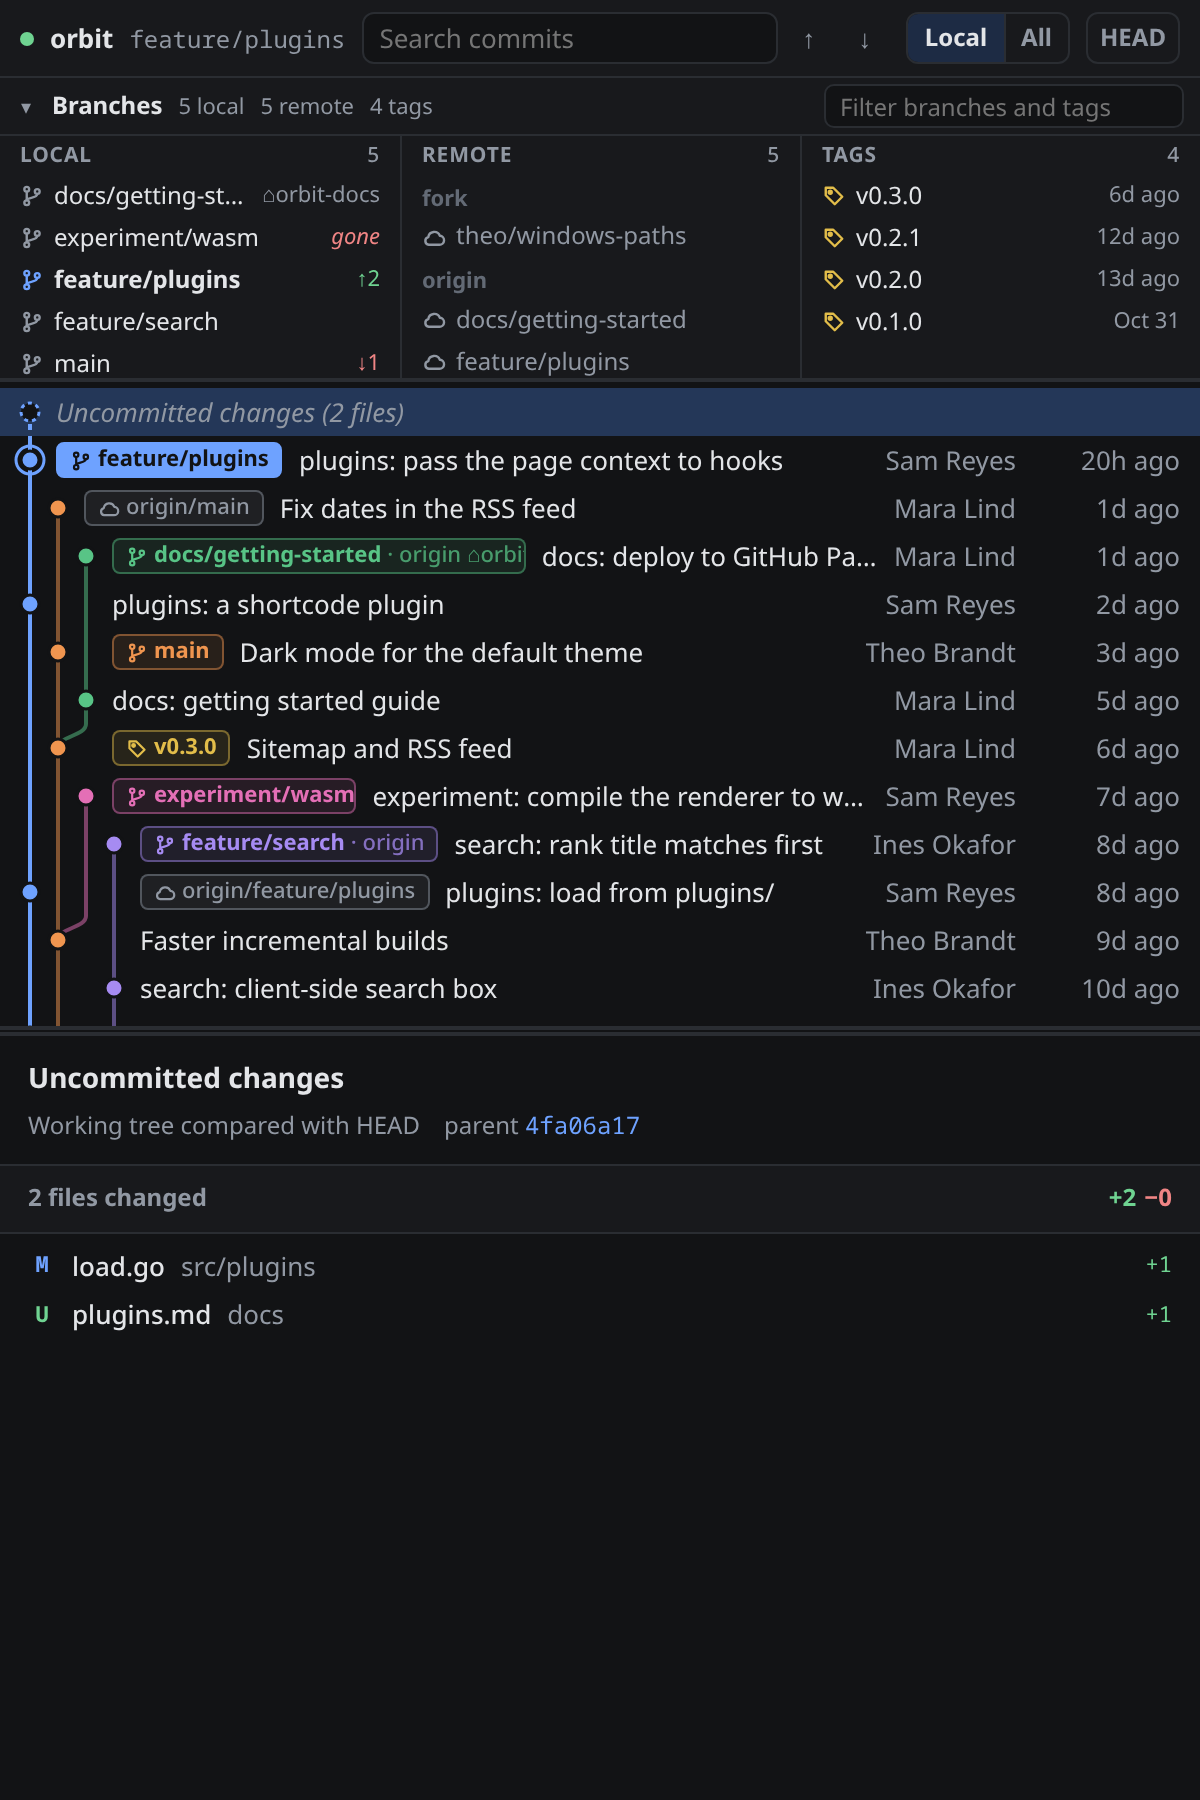
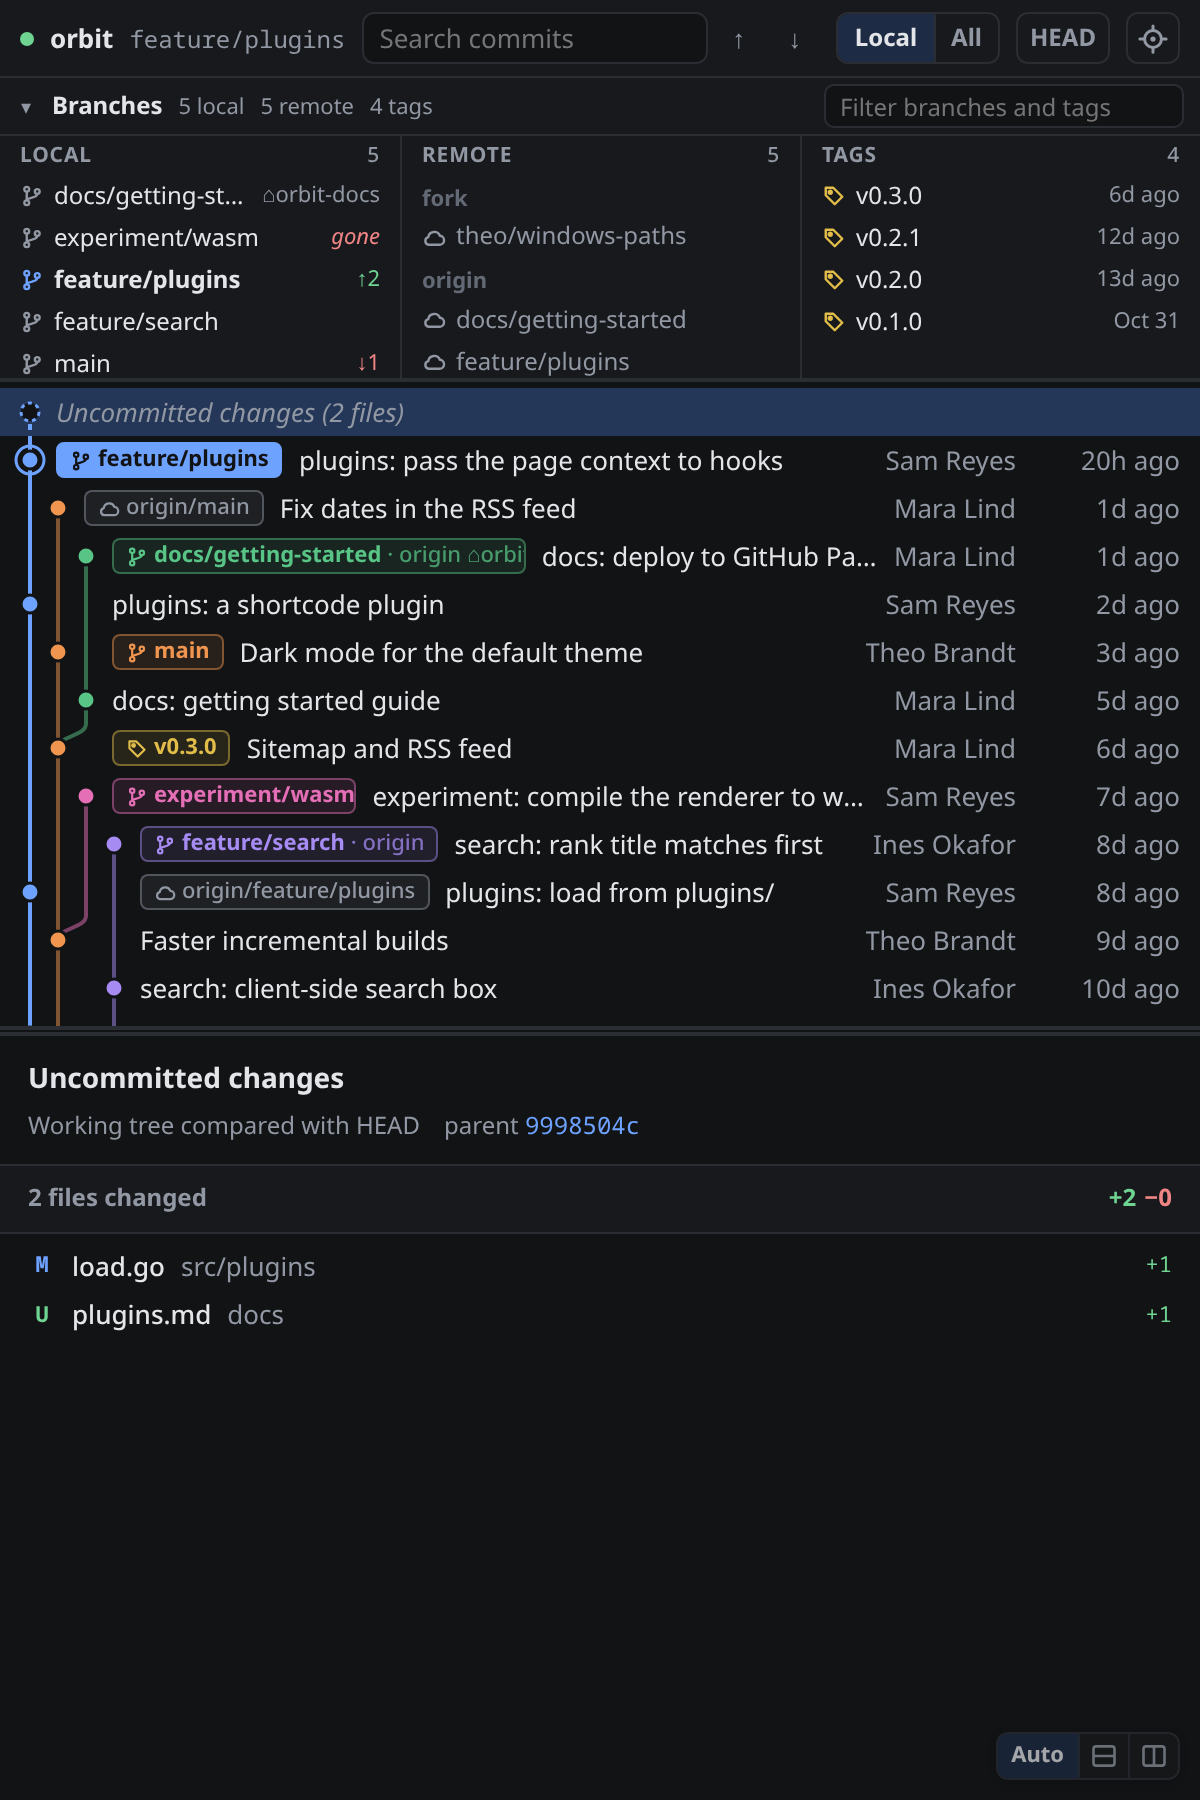
Rework the README: why GGitree exists, planned features, known limits
Also refresh the screenshot with the Follow button and layout switch.

diff --git a/README.md b/README.md
@@ -1,23 +1,45 @@
-# ggitree
+# GGitree
 
-A JetBrains-style commit graph for your repository, served as a local web page so it can sit in
-[T3 Code](https://github.com/pingdotgg/t3code)'s right panel (or any browser tab).
+A JetBrains-style git graph for your repository, served as a local web page so it can sit in
+[T3 Code](https://github.com/pingdotgg/t3code)'s right panel, or in any browser tab.
 
-<img src="docs/screenshot.png" alt="ggitree showing a demo repository at side-panel width" width="420" align="right">
+<img src="docs/screenshot.png" alt="GGitree showing a demo repository at side-panel width" width="420" align="right">
 
-- Colored branch lanes with merges, branch and tag labels, and the checked-out commit ringed
-- Commit details with changed files, and syntax-highlighted diffs
+## Why
+
+I was a long-time, happy user of JetBrains IDEs, and I always liked their git integration, the git tree
+most of all. Since the AI age I have moved through many different agent IDEs and CLIs, and now to T3 Code.
+In all of them I missed that well-integrated git tree. I didn't find an existing tool that really fit me
+or my workflow, so I finally decided to build it myself.
+
+It is a small Go server that draws the graph as a web page, so it sits right in T3 Code's side panel, next
+to the agent, and updates live as the agent works. And that's GGitree: **go-git-tree**, because there are
+already too many git-trees.
+
+## Features
+
+- Colored branch lanes with merges, branch and tag labels, and a ring on the checked-out commit
+- Commit details with the changed files, and syntax-highlighted diffs
 - Uncommitted changes as their own row at the top
 - Live: updates within a moment when you or an agent commits, checks out or edits files
-- **Follow** keeps the newest change selected (the uncommitted changes, or else HEAD), so you can watch
-  an agent work without touching the panel; selecting any commit by hand turns it off
+- **Follow** keeps the newest change selected (the uncommitted changes, or else HEAD), so you can watch an
+  agent work without touching the panel; selecting a commit by hand turns it off
+- A branches panel above the graph lists local branches (with ahead/behind counts), remote branches and
+  tags; click one to jump to its commit
 - Marks branches that are checked out in other worktrees
-- A branches panel above the graph lists local branches (with ahead/behind counts), remote branches
-  and tags; click one to jump to its commit
 - Local branches by default; **All** adds every remote branch and tag
+- Layout switch: automatic, always stacked, or always side by side
+- Follows your light or dark mode
 - Read-only: it never changes your repository
 
 One Go binary with the page embedded. No Node at runtime or build time.
+
+## Planned
+
+- Pull request indicators on branches and commits
+- GitHub Actions runs and their status for each commit
+
+<br clear="right">
 
 ## Install
 
@@ -28,7 +50,13 @@ make install            # builds, copies ggitree to ~/.local/bin and adds the T3
 make install-service    # optional: also start it at login (systemd user service)
 ```
 
+`make uninstall` removes all of it again.
+
 ## Use
+
+In T3 Code, press `Ctrl+Alt+G` in any thread: the graph of that thread's checkout opens in the right panel.
+
+From a shell:
 
 ```sh
 ggitree open [path]   # show the repository at path (default: current directory)
@@ -49,38 +77,36 @@ ggitree stop
 | `[` | Previous file |
 | `Esc` | Back from the diff to the file list |
 | `/` or `Ctrl+F` | Search; `Enter` / `Shift+Enter` for next / previous match |
-| `H` | Jump to the checked-out commit |
-| `F` | Follow the newest change (same as the target button next to **HEAD**) |
+| `H` | Select the checked-out commit |
+| `F` | Follow the newest change (the target button next to **HEAD**) |
 | `B` | Show or hide the branches panel |
 | `Shift+B` | Filter branches and tags (`Enter` jumps to the first match) |
 
-Search matches commit messages, authors, commit ids and ref names.
+Search matches commit messages, authors, commit ids and branch and tag names.
 
-Clicking a remote branch or tag that the **Local** view doesn't include switches to **All** first. Drag
-the line under the branches panel to resize it; its size and whether it is open are remembered.
+Clicking a remote branch or tag that the **Local** view doesn't include switches to **All** first. Drag the
+line under the branches panel, or between the graph and the details, to resize them. Sizes, the layout, the
+Local/All choice and Follow are remembered.
 
-The switch in the bottom-right corner fixes the layout: **Auto** puts the graph and the details side by
-side when the page is wide and stacks them when it is narrow, or pick always stacked or always side by side.
+## T3 Code setup
 
-## In T3 Code's right panel
-
-`make install` sets this up: it runs `ggitree t3-install`, which adds a **GGitree** action to every project
-and binds it to `Ctrl+Alt+G` (`mod+alt+g`). T3 Code picks the change up without a restart.
+`make install` runs `ggitree t3-install`, which adds a **GGitree** action to every project and binds it to
+`Ctrl+Alt+G` (`mod+alt+g`). T3 Code picks the change up without a restart.
 
 - **Where it goes.** T3 Code's settings page only edits one project's actions, so `t3-install` edits
   `~/.t3/userdata/settings.json` directly. It puts the action in the top-level `defaultProjectScripts` list
   that all projects share, and also into each project's own list, because a project with its own list
   ignores the shared one. The shortcut goes in `keybindings.json`.
 - **Rerunning.** Running it again only fixes what is missing or out of date, so after a T3 Code update
-  changes the format, fix `internal/t3setup` and run `make install` again. A project added later with its
-  own action list needs a rerun too. A shortcut you changed in T3 Code is kept.
+  changes the format, fix `internal/t3setup` and run `make install` again. A project that gets its own action
+  list later needs a rerun too. A shortcut you changed in T3 Code is kept.
 - **Backup.** The first run copies both files to `~/.t3/userdata/ggitree-backup/`. Later runs keep that copy.
 - **Uninstall.** `make uninstall` (or `ggitree t3-uninstall`) puts the backup back if T3 Code hasn't changed
-  the file since the last install. If it has, it removes only ggitree's entries, so your other changes stay,
+  the file since the last install. If it has, it removes only GGitree's entries, so your other changes stay,
   and moves the old backup to `ggitree-backup-<date>`.
 
-`--t3-dir` points both commands at another folder (default `$T3CODE_HOME/userdata`, else
-`~/.t3/userdata`). The action's fields, if you'd rather add it by hand:
+`--t3-dir` points both commands at another folder (default `$T3CODE_HOME/userdata`, else `~/.t3/userdata`).
+The action's fields, if you'd rather add it by hand:
 
 | Field | Value |
 | --- | --- |
@@ -91,31 +117,41 @@ and binds it to `Ctrl+Alt+G` (`mod+alt+g`). T3 Code picks the change up without 
 | Stop this action when the thread settles | on |
 | Open preview automatically when this action runs | on |
 
-Pressing the keybinding opens the graph as a browser tab in the right panel, not the floating preview. The
-"Auto-show floating preview" browser setting only applies to previews an agent opens. The action runs in the
-thread's own checkout, so the graph shows that worktree.
+How it works:
 
+- The action runs in the thread's own checkout, so the graph shows that worktree.
 - `exit` closes the terminal the action ran in. "Stop this action when the thread settles" makes T3 Code
   start a fresh terminal for it rather than reusing one of yours, so `exit` never closes your shell. The
   server detaches from the terminal and keeps running.
-- T3 Code opens the preview right after starting the command. If the server is not running yet, the very
-  first open can beat it; reload the tab, or run `make install-service` so it is always up.
+- T3 Code opens the preview right after starting the command. If the server isn't running yet, that first
+  open can beat it; reload the tab, or run `make install-service` so the server is always up.
+
+## Known limits
+
+- It lives in a browser tab, not a real T3 Code panel. Hiding the right panel while the GGitree tab is active
+  turns it into T3's floating preview; close the tab instead, `Ctrl+Alt+G` brings it back. A native panel
+  can come once T3 Code supports extensions.
+- One server shows one repository at a time. Opening it from another thread switches it to that thread's
+  checkout.
+- **All** gets very wide on repositories with thousands of remote branches.
+- Editing a file that is already listed as changed doesn't refresh its open diff until something else
+  changes.
 
 ## Develop
 
 ```sh
-make build     # bundle the page (esbuild via its Go API) and build the binary
+make build        # bundle the page (esbuild via its Go API) and build the binary
 make test
-make watch     # rebuild the page on change; run `go run . serve .` alongside
-make screenshot  # rebuild docs/screenshot.png (needs Node 22+ and Chrome)
+make watch        # rebuild the page on change; run `go run . serve .` alongside
+make screenshot   # rebuild docs/screenshot.png (needs Node 22+ and Chrome)
 ```
 
-`make screenshot` builds a made-up repository with `tools/demo/demo-repo.sh` (merged and open
-branches, tags, two remotes, a second worktree, uncommitted changes), shows it with a private server
-and captures the page with headless Chrome. Set `CHROME` if Chrome isn't on your PATH.
+`make screenshot` builds a made-up repository with `tools/demo/demo-repo.sh` (merged and open branches,
+tags, two remotes, a second worktree, uncommitted changes), shows it with a private server and captures the
+page with headless Chrome. Set `CHROME` if Chrome isn't on your PATH.
 
 The page lives in `web/src` (plain TypeScript, no framework). `web/tsconfig.json` is only for type checking,
 e.g. `npx -p typescript tsc -p web`.
 
 Layout: `internal/gitx` reads git, `internal/graph` assigns lanes, `internal/server` serves the API and
-watches the repository, `web/` is the page.
+watches the repository, `internal/t3setup` installs the T3 Code action, `web/` is the page.
